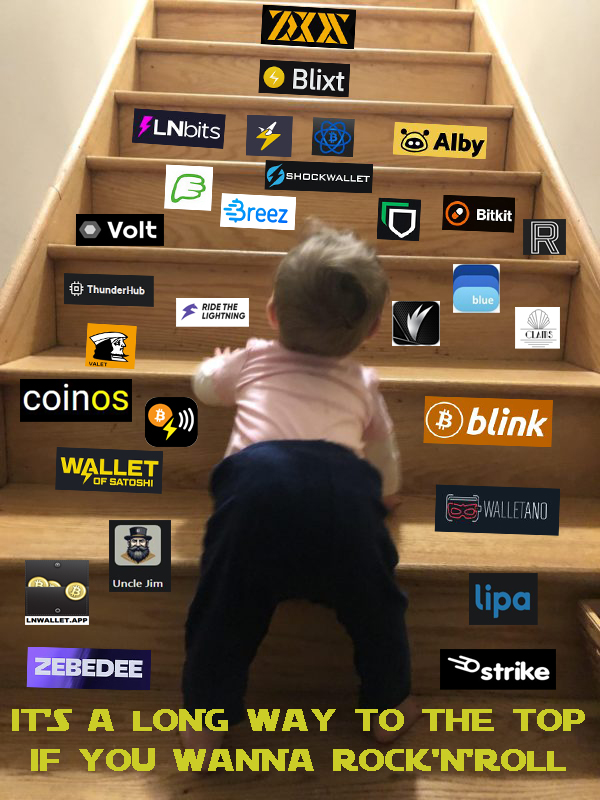
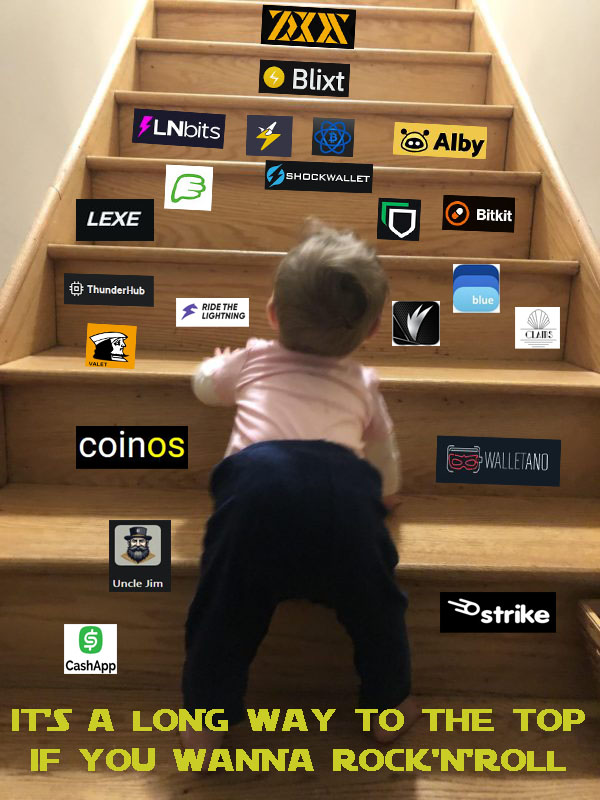
remove blink, update  wallets

diff --git a/beginner/getting-started-stack-sats-hi.html b/beginner/getting-started-stack-sats-hi.html
@@ -60,17 +60,13 @@ image: /assets/images/wallets-ladder.jpg
 <li>CoinOS - <a href="https://coinos.io/">वेबपेज</a> | <a href="https://github.com/CoinOS">Github</a> (वेब वॉलेट, POS, एकीकृत स्वैप)</li>
 <li>Walletano - <a href="https://www.walletano.com/">वेबपेज</a> | <a href="https://github.com/Walletano">Github</a> | <a href="https://t.me/walletanoCH">Telegram</a> (वेब वॉलेट, PWA, कई खाते) | <a href="/wallets/getting-started-walletano-hi.html">DC गाइड</a> </li>
 <li>Sats.Mobi - <a href="https://sats.mobi/"> <a href="https://t.me/satsmobiBot">टेलीग्राम</a> (टेलीग्राम LN बॉट, ज़ीउस या ब्लूवॉलेट में LNDHUB खाते के रूप में आयात किया जा सकता है)</li>
-<li>ब्लिंक - <a href="https://www.blink.sv/">वेबपेज</a> | <a href="https://github.com/GaloyMoney/galoy-mobile/">Github</a> (लाइट KYC, एकीकृत स्वैप, वेब PoS/ दान पृष्ठ)। <a href="https://stacker.news/items/341247/r/DarthCoin">यहाँ एक बढ़िया गाइड है</a> कि कैसे ब्लिंक का उपयोग करें, नतालिया द्वारा।</li>
+<li>ShockWallet - <a href="https://shockwallet.app">Webpage</a> | <a href="https://github.com/shocknet/wallet2">Github</a> | <a href="https://t.me/ShockBTC">Telegram</a> (web wallet, PWA, multiple accounts, custodial, non-custodial)</a> </li>
 <li>LN Voltz - <a href="https://lnvoltz.com/">वेबपेज</a> (ब्राजील का LNBits सामुदायिक बैंक, सभी सुविधाओं के साथ)</li>
 <li>La Wallet - <a href="https://lawallet.io/">वेबपेज</a> (अर्जेंटीना का सामुदायिक LN बैंक)</li>
-<li>LNwallet ऐप - <a href="https://lnwallet.app/">वेबपेज</a> तुरंत एक नया वॉलेट बनाएं जिसे आप किसी भी NWC-संचालित ऐप में उपयोग कर सकते हैं</li>
-<li>Wallet of Satoshi - <a href="https://www.walletofsatoshi.com/">वेबपेज</a> (Google की आवश्यकता है सेवाएँ, PoS, एकीकृत स्वैप)</li>
 <li>Rizful - <a href="https://rizful.com/">Webpage</a> | <a href="https://stacker.news/items/904362/r/DarthCoin">DC Guide</a> | क्लाउड में अपना स्वयं का LN नोड शुरू करना बहुत आसान है</li>
 <li>CashApp - <a href="https://cash.app/">वेबपेज</a> (Google सेवाएँ, लाइट KYC, एकीकृत स्वैप की आवश्यकता है)</li>
 <li>Strike - <a href="https://strike.me/">वेबपेज</a> (Google सेवाएँ, पूर्ण KYC, एकीकृत स्वैप की आवश्यकता है)</li>
-<li>Zebedee - <a href="https://zbd.gg/">वेबपेज</a> (Google सेवाएँ, लाइट KYC की आवश्यकता है)</li>
 <li>Minibits - <a href="https://www.minibits.cash/">वेबपेज</a> (गैर-KYC, ecash cashu मिंट, कई मिंट समर्थित, NWC)</li>
-<li>eNuts - <a href="https://www.enuts.cash/">वेबपेज</a> (गैर-KYC, ईकैश कैशू मिंट, कई मिंट समर्थित, स्वैप)</li>
 <li>Cashu.me - <a href="https://cashu.me/">वेबपेज</a> (गैर-KYC, वेब ऐप, ईकैश कैशू मिंट, कई मिंट समर्थित, स्वैप, NWC)</li>
 </ul>
 <h3>स्टैकिंग के इस पहले स्तर के लिए लाइटनिंग सेवाएँ:</h3>

diff --git a/beginner/getting-started-stack-sats-en.html b/beginner/getting-started-stack-sats-en.html
@@ -61,16 +61,13 @@ Bitcoin Layer 2 (Lightning Network - LN): is an accounting system which lets you
 <li>Alby - <a href="https://getalby.com/">Webpage</a> | <a href="https://github.com/getAlby">Github</a> | <a href="https://blog.getalby.com/">Blog</a> | <a href="https://t.me/getAlby">Telegram</a> (include swaps and can be used as web browser extension, web wallet, PWA or imported into Zeus or Bluewallet as a LNDHUB account). <a href="/wallets/getting-started-alby-hub-en.html">Here I wrote a dedicated guide about Alby Hub</a>, a self-custodial way to use Alby.</li>
 <li>CoinOS - <a href="https://coinos.io/">Webpage</a> | <a href="https://github.com/CoinOS">Github</a> (web wallet, POS, integrated swaps)</li>
 <li>Walletano - <a href="https://www.walletano.com/">Webpage</a> | <a href="https://github.com/Walletano">Github</a> | <a href="https://t.me/walletanoCH">Telegram</a> (web wallet, PWA, multiple accounts) | <a href="/wallets/getting-started-walletano-en.html">DC guide</a> </li>
+<li>ShockWallet - <a href="https://shockwallet.app">Webpage</a> | <a href="https://github.com/shocknet/wallet2">Github</a> | <a href="https://t.me/ShockBTC">Telegram</a> (web wallet, PWA, multiple accounts, custodial, non-custodial)</a> </li>
 <li>Sats.Mobi - <a href="https://sats.mobi/"> <a href="https://t.me/satsmobiBot">Telegram</a> (Telegram LN bot, can be used imported as LNDHUB acc into Zeus or Bluewallet)</li>
-<li>Blink - <a href="https://www.blink.sv/">Webpage</a> | <a href="https://github.com/GaloyMoney/galoy-mobile/">Github</a> (light KYC, integrated swaps, web PoS/ donation page). <a href="https://stacker.news/items/341247/r/DarthCoin">Here is a nice guide</a> how to use Blink, by Natalia.</li>
 <li>LN Voltz - <a href="https://lnvoltz.com/">Webpage</a> (Brazilian LNBits Community Bank, with full features)</li>
 <li>La Wallet - <a href="https://lawallet.io/">Webpage</a> (Argentinian Community LN Bank)</li>
-<li>LNwallet App - <a href="https://lnwallet.app/">Webpage</a> Instantly create a new wallet that you can use in any NWC-powered app</li>
-<li>Wallet of Satoshi - <a href="https://www.walletofsatoshi.com/">Webpage</a> (require Google Services, PoS, integrated swaps)</li>
 <li>Rizful - <a href="https://rizful.com/">Webpage</a> | <a href="https://stacker.news/items/904362/r/DarthCoin">DC Guide</a> | Very easy to start your own LN node in the cloud</li>
 <li>CashApp - <a href="https://cash.app/">Webpage</a> (require Google Services, light KYC, integrated swaps)</li>
 <li>Strike - <a href="https://strike.me/">Webpage</a> (require Google Services, full KYC, integrated swaps)</li>
-<li>Zebedee - <a href="https://zbd.gg/">Webpage</a> (require Google Services, light KYC)</li>
 <li>Minibits - <a href="https://www.minibits.cash/">Webpage</a> (non-KYC, ecash cashu mint, multiple mints supported, NWC)</li>
 <li>Cashu.me - <a href="https://cashu.me/">Webpage</a> (non-KYC, web app, ecash cashu mint, multiple mints supported, swaps, NWC)</li>
 </ul>

diff --git a/beginner/getting-started-stack-sats-es.html b/beginner/getting-started-stack-sats-es.html
@@ -61,17 +61,13 @@ Bitcoin Layer 2 (Lightning Network - LN): es un sistema de contabilidad que le p
 <li>CoinOS - <a href="https://coinos.io/">Página web</a> | <a href="https://github.com/CoinOS">Github</a> (billetera web, POS, swaps integrados)</li>
 <li>Walletano - <a href="https://www.walletano.com/">Página web</a> | <a href="https://github.com/Walletano">Github</a> | <a href="https://t.me/walletanoCH">Telegram</a> (billetera web, PWA, múltiples cuentas) | <a href="/wallets/getting-started-walletano-es.html">Guía de DC</a> </li>
 <li>Sats.Mobi - <a href="https://sats.mobi/"> <a href="https://t.me/satsmobiBot">Telegram</a> (bot de Telegram LN, se puede usar importado como cuenta LNDHUB en Zeus o Bluewallet)</li>
-<li>Blink - <a href="https://www.blink.sv/">Página web</a> | <a href="https://github.com/GaloyMoney/galoy-mobile/">Github</a> (KYC ligero, intercambios integrados, PoS web/página de donaciones). <a href="https://stacker.news/items/341247">Aquí hay una buena guía</a> sobre cómo usar Blink, por Natalia.</li>
+<li>ShockWallet - <a href="https://shockwallet.app">Webpage</a> | <a href="https://github.com/shocknet/wallet2">Github</a> | <a href="https://t.me/ShockBTC">Telegram</a> (web wallet, PWA, multiple accounts, custodial, non-custodial)</a> </li>
 <li>LN Voltz - <a href="https://lnvoltz.com/">Página web</a> (Banco LN comunitario brasileño, LNBits con todas las funciones)</li>
 <li>La Wallet - <a href="https://lawallet.io/">Página web</a> (Banco LN comunitario argentino)</li>
-<li>LNwallet app: <a href="https://lnwallet.app/">Página web</a> Cree al instante una nueva billetera que pueda usar en cualquier aplicación con tecnología NWC.</li>
-<li>Wallet of Satoshi - <a href="https://www.walletofsatoshi.com/">Página web</a> (requiere servicios de Google, PoS, swaps integrados)</li>
 <li>Rizful - <a href="https://rizful.com/">Webpage</a> | <a href="https://stacker.news/items/904362/r/DarthCoin">DC Guide</a> | Es muy fácil iniciar tu propio nodo LN en la nube</li>
 <li>CashApp - <a href="https://cash.app/">Página web</a> (requiere los servicios de Google, KYC ligero, swaps integrados)</li>
 <li>Strike - <a href="https://strike.me/">Página web</a> (requiere los servicios de Google, KYC completo, swaps integrados)</li>
-<li>Zebedee - <a href="https://zbd.gg/">Página web</a> (requiere los servicios de Google, KYC ligero)</li>
 <li>Minibits - <a href="https://www.minibits.cash/">Página web</a> (sin KYC, ecash cashu mint, admite varias acuñaciones, NWC)</li>
-<li>eNuts - <a href="https://www.enuts.cash/">Página web</a> (sin KYC, ecash cashu mint, admite varias acuñaciones, swaps)</li>
 <li>Cashu.me - <a href="https://cashu.me/">Página web</a> (sin KYC, aplicación web, ecash cashu mint, múltiples acuñaciones admitidas, swaps, NWC)</li>
 </ul>
 <h3>Servicios Lightning para este primer nivel de apilamiento:</h3>

diff --git a/beginner/getting-started-stack-sats-fr.html b/beginner/getting-started-stack-sats-fr.html
@@ -59,17 +59,13 @@ image: /assets/images/wallets-ladder.jpg
 <li>CoinOS - <a href="https://coinos.io/">Page Web</a> | <a href="https://github.com/CoinOS">Github</a> (portefeuille Web, POS, swaps intégrés)</li>
 <li>Walletano - <a href="https://www.walletano.com/">Page Web</a> | <a href="https://github.com/Walletano">Github</a> | <a href="https://t.me/walletanoCH">Telegram</a> (portefeuille Web, PWA, comptes multiples) | <a href="/wallets/getting-started-walletano-fr.html">Guide DC</a> </li>
 <li>Sats.Mobi - <a href="https://sats.mobi/"> <a href="https://t.me/satsmobiBot">Telegram</a> (bot Telegram LN, peut être utilisé importé comme compte LNDHUB dans Zeus ou Bluewallet)</li>
-<li>Blink - <a href="https://www.blink.sv/">Page Web</a> | <a href="https://github.com/GaloyMoney/galoy-mobile/">Github</a> (KYC léger, swaps intégrés, PoS Web/page de don). <a href="https://stacker.news/items/341247/r/DarthCoin">Voici un bon guide</a> sur l'utilisation de Blink, par Natalia.</li>
+<li>ShockWallet - <a href="https://shockwallet.app">Webpage</a> | <a href="https://github.com/shocknet/wallet2">Github</a> | <a href="https://t.me/ShockBTC">Telegram</a> (web wallet, PWA, multiple accounts, custodial, non-custodial)</a> </li>
 <li>LN Voltz - <a href="https://lnvoltz.com/">Page Web</a> (Banque communautaire brésilienne LNBits, avec toutes les fonctionnalités)</li>
 <li>La Wallet - <a href="https://lawallet.io/">Page Web</a> (Banque communautaire argentine LN)</li>
-<li>LNwallet app - <a href="https://lnwallet.app/">Page Web</a> Créez instantanément un nouveau portefeuille que vous pouvez utiliser dans n'importe quelle application propulsée par NWC</li>
-<li>Wallet of Satoshi - <a href="https://www.walletofsatoshi.com/">Page Web</a> (nécessite les services Google, PoS, swaps intégrés)</li>
 <li>Rizful - <a href="https://rizful.com/">Webpage</a> | <a href="https://stacker.news/items/904362/r/DarthCoin">DC Guide</a> | Il est très facile de démarrer votre propre nœud LN dans le cloud</li>
 <li>CashApp - <a href="https://cash.app/">Page Web</a> (nécessite les services Google, KYC léger, swaps intégrés)</li>
 <li>Strike - <a href="https://strike.me/">Page Web</a> (nécessite les services Google, KYC complet, swaps intégrés)</li>
-<li>Zebedee - <a href="https://zbd.gg/">Page Web</a> (nécessite les services Google, KYC léger)</li>
 <li>Minibits - <a href="https://www.minibits.cash/">Page Web</a> (non-KYC, ecash cashu mint, plusieurs mints pris en charge, NWC)</li>
-<li>eNuts - <a href="https://www.enuts.cash/">Page Web</a> (non-KYC, ecash cashu mint, plusieurs mints pris en charge, swaps)</li>
 <li>Cashu.me - <a href="https://cashu.me/">Page Web</a> (non-KYC, application Web, ecash cashu mint, plusieurs mints pris en charge, swaps, NWC)</li>
 </ul>
 <h3>Services Lightning pour ce 1er niveau de stacking :</h3>

diff --git a/beginner/getting-started-stack-sats-de.html b/beginner/getting-started-stack-sats-de.html
@@ -61,17 +61,13 @@ Bitcoin Layer 2 (Lightning Network - LN): ist ein Buchhaltungssystem, mit dem Si
 <li>CoinOS – <a href="https://coinos.io/">Webseite</a> | <a href="https://github.com/CoinOS">Github</a> (Web-Wallet, POS, integrierte Swaps)</li>
 <li>Walletano – <a href="https://www.walletano.com/">Webseite</a> | <a href="https://github.com/Walletano">Github</a> | <a href="https://t.me/walletanoCH">Telegram</a> (Web-Wallet, PWA, mehrere Konten) | <a href="/wallets/getting-started-walletano-de.html">DC-Leitfaden</a> </li>
 <li>Sats.Mobi – <a href="https://sats.mobi/"> <a href="https://t.me/satsmobiBot">Telegram</a> (Telegram LN-Bot, kann als LNDHUB-Konto in Zeus oder Bluewallet importiert verwendet werden)</li>
-<li>Blink – <a href="https://www.blink.sv/">Webseite</a> | <a href="https://github.com/GaloyMoney/galoy-mobile/">Github</a> (leichtes KYC, integrierte Swaps, Web-PoS/Spendenseite). <a href="https://stacker.news/items/341247/r/DarthCoin">Hier ist eine nette Anleitung</a> von Natalia zur Verwendung von Blink.</li>
+<li>ShockWallet - <a href="https://shockwallet.app">Webpage</a> | <a href="https://github.com/shocknet/wallet2">Github</a> | <a href="https://t.me/ShockBTC">Telegram</a> (web wallet, PWA, multiple accounts, custodial, non-custodial)</a> </li>
 <li>LN Voltz - <a href="https://lnvoltz.com/">Webseite</a> (brasilianische LNBits-Gemeinschaftsbank, mit allen Funktionen)</li>
 <li>La Wallet - <a href="https://lawallet.io/">Webseite</a> (argentinische LN-Gemeinschaftsbank)</li>
-<li>LNwallet-App – <a href="https://lnwallet.app/">Webseite</a> Erstellen Sie sofort eine neue Brieftasche, die Sie in jeder NWC-basierten App verwenden können.</li>
-<li>Wallet of Satoshi - <a href="https://www.walletofsatoshi.com/">Webseite</a> (erfordert Google Services, PoS, integrierte Swaps)</li>
 <li>Rizful - <a href="https://rizful.com/">Webpage</a> | <a href="https://stacker.news/items/904362/r/DarthCoin">DC Guide</a> | Ganz einfach, Ihren eigenen LN-Knoten in der Cloud zu starten</li>
 <li>CashApp - <a href="https://cash.app/">Webseite</a> (erfordert Google Services, leichtes KYC, integrierte Swaps)</li>
 <li>Strike - <a href="https://strike.me/">Webseite</a> (erfordert Google Services, vollständiges KYC, integrierte Swaps)</li>
-<li>Zebedee - <a href="https://zbd.gg/">Webseite</a> (erfordert Google Services, leichtes KYC)</li>
 <li>Minibits - <a href="https://www.minibits.cash/">Webseite</a> (kein KYC, ecash cashu mint, mehrere Mints unterstützt, NWC)</li>
-<li>eNuts - <a href="https://www.enuts.cash/">Webseite</a> (kein KYC, ecash cashu mint, mehrere Mints unterstützt, Swaps)</li>
 <li>Cashu.me - <a href="https://cashu.me/">Webseite</a> (nicht KYC, Web-App, Ecash Cashu Mint, mehrere Mints unterstützt, Swaps, NWC)</li>
 </ul>
 <h3>Lightning Services für diese 1. Stacking-Ebene:</h3>

diff --git a/beginner/getting-started-stack-sats-hr.html b/beginner/getting-started-stack-sats-hr.html
@@ -60,17 +60,13 @@ Bitcoin Layer 2 (Lightning Network - LN): je računovodstveni sustav koji vam om
 <li>CoinOS - <a href="https://coinos.io/">Web stranica</a> | <a href="https://github.com/CoinOS">Github</a> (web novčanik, POS, integrirana zamjena)</li>
 <li>Walletano - <a href="https://www.walletano.com/">Web stranica</a> | <a href="https://github.com/Walletano">Github</a> | <a href="https://t.me/walletanoCH">Telegram</a> (web novčanik, PWA, više računa) | <a href="/wallets/getting-started-walletano-hr.html">DC vodič</a> </li>
 <li>Sats.Mobi - <a href="https://sats.mobi/"> <a href="https://t.me/satsmobiBot">Telegram</a> (Telegram LN bot, može se korišten uvezen kao LNDHUB acc u Zeus ili Bluewallet)</li>
-<li>Blink - <a href="https://www.blink.sv/">Web stranica</a> | <a href="https://github.com/GaloyMoney/galoy-mobile/">Github</a> (laki KYC, integrirane zamjene, web PoS/stranica za donacije). <a href="https://stacker.news/items/341247/r/DarthCoin">Evo lijepog vodiča</a> kako koristiti Blink, od Natalije.</li>
+<li>ShockWallet - <a href="https://shockwallet.app">Webpage</a> | <a href="https://github.com/shocknet/wallet2">Github</a> | <a href="https://t.me/ShockBTC">Telegram</a> (web wallet, PWA, multiple accounts, custodial, non-custodial)</a> </li>
 <li>LN Voltz - <a href="https://lnvoltz.com/">Web stranica</a> (Brazilska LNBits Community Bank, sa svim značajkama)</li>
 <li>La Wallet - <a href="https://lawallet.io/">Web stranica</a> (LN banka argentinske zajednice)</li>
-<li>LNwallet app - <a href="https://lnwallet.app/">Web stranica</a> Odmah stvorite novi novčanik koji možete koristiti u bilo kojoj aplikaciji koju pokreće NWC</li>
-<li>Wallet of Satoshi - <a href="https://www.walletofsatoshi.com/">Web stranica</a> (zahtijeva Googleove usluge, PoS, integrirane zamjene)</li>
 <li>Rizful - <a href="https://rizful.com/">Webpage</a> | <a href="https://stacker.news/items/904362/r/DarthCoin">DC Guide</a> | Vrlo jednostavno pokrenuti vlastiti LN čvor u oblaku</li>
 <li>CashApp - <a href="https://cash.app/">Web stranica</a> (zahtijevaju Googleove usluge, lagani KYC, integrirane zamjene)</li>
 <li>Strike - <a href="https://strike.me/">Web stranica</a> (zahtijeva Googleove usluge, puni KYC, integrirane zamjene)</li>
-<li>Zebedee - <a href="https://zbd.gg/">Web stranica</a> (zahtijeva Googleove usluge, svjetlo KYC)</li>
 <li>Minibits - <a href="https://www.minibits.cash/">Web stranica</a> (ne-KYC, ecash cashu mint, podržano više kovnica, NWC)</li>
-<li>eNuts - <a href="https://www.enuts.cash/">Web stranica</a> (ne-KYC, ecash cashu mint, podržano više kovnica, zamjene)</li>
 <li>Cashu.me - <a href="https://cashu.me/">Web stranica</a> (ne-KYC, web aplikacija, ecash cashu mint, podržano više kovnica, zamjene, NWC)</li >
 </ul>
 <h3>Usluge munje za ovu prvu razinu slaganja:</h3>

diff --git a/beginner/getting-started-stack-sats-nl.html b/beginner/getting-started-stack-sats-nl.html
@@ -60,17 +60,13 @@ Bitcoin Layer 2 (Lightning Network - LN): is een boekhoudsysteem waarmee u trans
 <li>CoinOS - <a href="https://coinos.io/">Webpagina</a> | <a href="https://github.com/CoinOS">Github</a> (webwallet, POS, geïntegreerde swaps)</li>
 <li>Walletano - <a href="https://www.walletano.com/">Webpagina</a> | <a href="https://github.com/Walletano">Github</a> | <a href="https://t.me/walletanoCH">Telegram</a> (webwallet, PWA, meerdere accounts) | <a href="/wallets/getting-started-walletano-nl.html">DC-gids</a> </li>
 <li>Sats.Mobi - <a href="https://sats.mobi/"> <a href="https://t.me/satsmobiBot">Telegram</a> (Telegram LN-bot, kan worden geïmporteerd als LNDHUB-acc in Zeus of Bluewallet)</li>
-<li>Blink - <a href="https://www.blink.sv/">Webpagina</a> | <a href="https://github.com/GaloyMoney/galoy-mobile/">Github</a> (lichte KYC, geïntegreerde swaps, web PoS/donatiepagina). <a href="https://stacker.news/items/341247/r/DarthCoin">Hier is een mooie handleiding</a> over het gebruik van Blink, door Natalia.</li>
+<li>ShockWallet - <a href="https://shockwallet.app">Webpage</a> | <a href="https://github.com/shocknet/wallet2">Github</a> | <a href="https://t.me/ShockBTC">Telegram</a> (web wallet, PWA, multiple accounts, custodial, non-custodial)</a> </li>
 <li>LN Voltz - <a href="https://lnvoltz.com/">Webpagina</a> (Braziliaanse LNBits Community Bank, met alle functies)</li>
 <li>La Wallet - <a href="https://lawallet.io/">Webpagina</a> (Argentijnse Community LN Bank)</li>
-<li>LNwallet-app - <a href="https://lnwallet.app/">Webpagina</a> Maak direct een nieuwe portemonnee aan die u in elke NWC-app kunt gebruiken</li>
-<li>Wallet of Satoshi - <a href="https://www.walletofsatoshi.com/">Webpagina</a> (vereist Google Services, PoS, geïntegreerde swaps)</li>
 <li>Rizful - <a href="https://rizful.com/">Webpage</a> | <a href="https://stacker.news/items/904362/r/DarthCoin">DC Guide</a> | Heel eenvoudig om uw eigen LN-knooppunt in de cloud te starten</li>
 <li>CashApp - <a href="https://cash.app/">Webpagina</a> (vereist Google Services, lichte KYC, geïntegreerde swaps)</li>
 <li>Strike - <a href="https://strike.me/">Webpagina</a> (vereist Google Services, volledige KYC, geïntegreerde swaps)</li>
-<li>Zebedee - <a href="https://zbd.gg/">Webpagina</a> (vereist Google Services, lichte KYC)</li>
 <li>Minibits - <a href="https://www.minibits.cash/">Webpagina</a> (niet-KYC, ecash cashu mint, ondersteuning voor meerdere mints, NWC)</li>
-<li>eNuts - <a href="https://www.enuts.cash/">Webpagina</a> (niet-KYC, ecash cashu mint, ondersteuning voor meerdere mints, swaps)</li>
 <li>Cashu.me - <a href="https://cashu.me/">Webpagina</a> (niet-KYC, web-app, ecash cashu-munt, ondersteuning voor meerdere munten, swaps, NWC)</li>
 </ul>
 <h3>Lightning Services voor dit 1e niveau van stapelen:</h3>

diff --git a/beginner/getting-started-stack-sats-it.html b/beginner/getting-started-stack-sats-it.html
@@ -60,17 +60,13 @@ Bitcoin Layer 2 (Lightning Network - LN): è un sistema di contabilità che ti c
 <li>CoinOS - <a href="https://coinos.io/">Pagina web</a> | <a href="https://github.com/CoinOS">Github</a> (portafoglio web, POS, swap integrati)</li>
 <li>Walletano - <a href="https://www.walletano.com/">Pagina web</a> | <a href="https://github.com/Walletano">Github</a> | <a href="https://t.me/walletanoCH">Telegram</a> (portafoglio web, PWA, più account) | <a href="/wallets/getting-started-walletano-it.html">Guida DC</a> </li>
 <li>Sats.Mobi - <a href="https://sats.mobi/"> <a href="https://t.me/satsmobiBot">Telegram</a> (bot Telegram LN, può essere utilizzato importato come account LNDHUB in Zeus o Bluewallet)</li>
-<li>Blink - <a href="https://www.blink.sv/">Pagina web</a> | <a href="https://github.com/GaloyMoney/galoy-mobile/">Github</a> (KYC leggero, swap integrati, pagina web PoS/donazioni). <a href="https://stacker.news/items/341247/r/DarthCoin">Ecco una bella guida</a> su come usare Blink, di Natalia.</li>
+<li>ShockWallet - <a href="https://shockwallet.app">Webpage</a> | <a href="https://github.com/shocknet/wallet2">Github</a> | <a href="https://t.me/ShockBTC">Telegram</a> (web wallet, PWA, multiple accounts, custodial, non-custodial)</a> </li>
 <li>LN Voltz - <a href="https://lnvoltz.com/">Pagina web</a> (banca comunitaria brasiliana LNBits, con funzionalità complete)</li>
 <li>La Wallet - <a href="https://lawallet.io/">Pagina web</a> (banca comunitaria argentina LN)</li>
-<li>LNwallet app - <a href="https://lnwallet.app/">Pagina web</a> Crea all'istante un nuovo portafoglio che puoi utilizzare in qualsiasi app basata su NWC</li>
-<li>Wallet of Satoshi - <a href="https://www.walletofsatoshi.com/">Pagina web</a> (richiede Google Services, PoS, scambi integrati)</li>
 <li>Rizful - <a href="https://rizful.com/">Webpage</a> | <a href="https://stacker.news/items/904362/r/DarthCoin">DC Guide</a> | È molto facile avviare il tuo nodo LN nel cloud</li>
 <li>CashApp - <a href="https://cash.app/">Pagina web</a> (richiede Google Services, KYC leggero, swap integrati)</li>
 <li>Strike - <a href="https://strike.me/">Pagina web</a> (richiede Google Services, KYC completo, swap integrati)</li>
-<li>Zebedee - <a href="https://zbd.gg/">Pagina web</a> (richiede Google Services, KYC leggero)</li>
 <li>Minibits - <a href="https://www.minibits.cash/">Pagina web</a> (non-KYC, ecash cashu mint, più mint supportate, NWC)</li>
-<li>eNuts - <a href="https://www.enuts.cash/">Pagina web</a> (non-KYC, ecash cashu mint, più mint supportate, swap)</li>
 <li>Cashu.me - <a href="https://cashu.me/">Pagina web</a> (non-KYC, app web, ecash cashu mint, più mint supportate, swap, NWC)</li>
 </ul>
 <h3>Servizi Lightning per questo 1° livello di stacking:</h3>

diff --git a/beginner/getting-started-stack-sats-pt.html b/beginner/getting-started-stack-sats-pt.html
@@ -62,15 +62,12 @@ Bitcoin Layer 2 (Lightning Network - LN): é um sistema de contabilidade que per
 <li>CoinOS - <a href="https://coinos.io/">Página da web</a> | <a href="https://github.com/CoinOS">Github</a> (carteira da web, POS, swaps integrados)</li>
 <li>Walletano - <a href="https://www.walletano.com/">Página da web</a> | <a href="https://github.com/Walletano">Github</a> | <a href="https://t.me/walletanoCH">Telegram</a> (carteira virtual, PWA, várias contas) | <a href="/wallets/getting-started-walletano-pt.html">Guia DC</a> </li>
 <li>Sats.Mobi - <a href="https://sats.mobi/"> <a href="https://t.me/satsmobiBot">Telegram</a> (bot LN do Telegram, pode ser usado importado como conta LNDHUB no Zeus ou Bluewallet)</li>
-<li>Blink - <a href="https://www.blink.sv/">Página da Web</a> | <a href="https://github.com/GaloyMoney/galoy-mobile/">Github</a> (KYC leve, swaps integrados, página de doação/PoS da Web). <a href="https://stacker.news/items/341247/r/DarthCoin">Aqui está um bom guia</a> sobre como usar o Blink, por Natalia.</li>
+<li>ShockWallet - <a href="https://shockwallet.app">Webpage</a> | <a href="https://github.com/shocknet/wallet2">Github</a> | <a href="https://t.me/ShockBTC">Telegram</a> (web wallet, PWA, multiple accounts, custodial, non-custodial)</a> </li>
 <li>LN Voltz - <a href="https://lnvoltz.com/">Página da Web</a> (Banco comunitário LNBits brasileiro, com todos os recursos)</li>
 <li>La Wallet - <a href="https://lawallet.io/">Página da Web</a> (Banco comunitário LN argentino)</li>
-<li>LNwallet app - <a href="https://lnwallet.app/">Página da Web</a> Crie instantaneamente uma nova carteira que você pode usar em qualquer aplicativo com tecnologia NWC</li>
-<li>Wallet of Satoshi - <a href="https://www.walletofsatoshi.com/">Página da Web</a> (requer Google Services, PoS, swaps integrados)</li>
 <li>Rizful - <a href="https://rizful.com/">Webpage</a> | <a href="https://stacker.news/items/904362/r/DarthCoin">DC Guide</a> | Muito fácil iniciar seu próprio nó LN na nuvem</li>
 <li>CashApp - <a href="https://cash.app/">Página da Web</a> (requer Google Services, KYC leve, swaps integrados)</li>
 <li>Strike - <a href="https://strike.me/">Página da Web</a> (requer Google Services, KYC completo, swaps integrados)</li>
-<li>Zebedee - <a href="https://zbd.gg/">Página da Web</a> (requer Google Services, KYC leve)</li>
 <li>Minibits - <a href="https://www.minibits.cash/">Página da Web</a> (não KYC, ecash cashu mint, várias mints suportadas, NWC)</li>
 <li>Cashu.me - <a href="https://cashu.me/">Página da Web</a> (não KYC, aplicativo da Web, ecash cashu mint, várias mints suportadas, swaps, NWC)</li>
 </ul>
